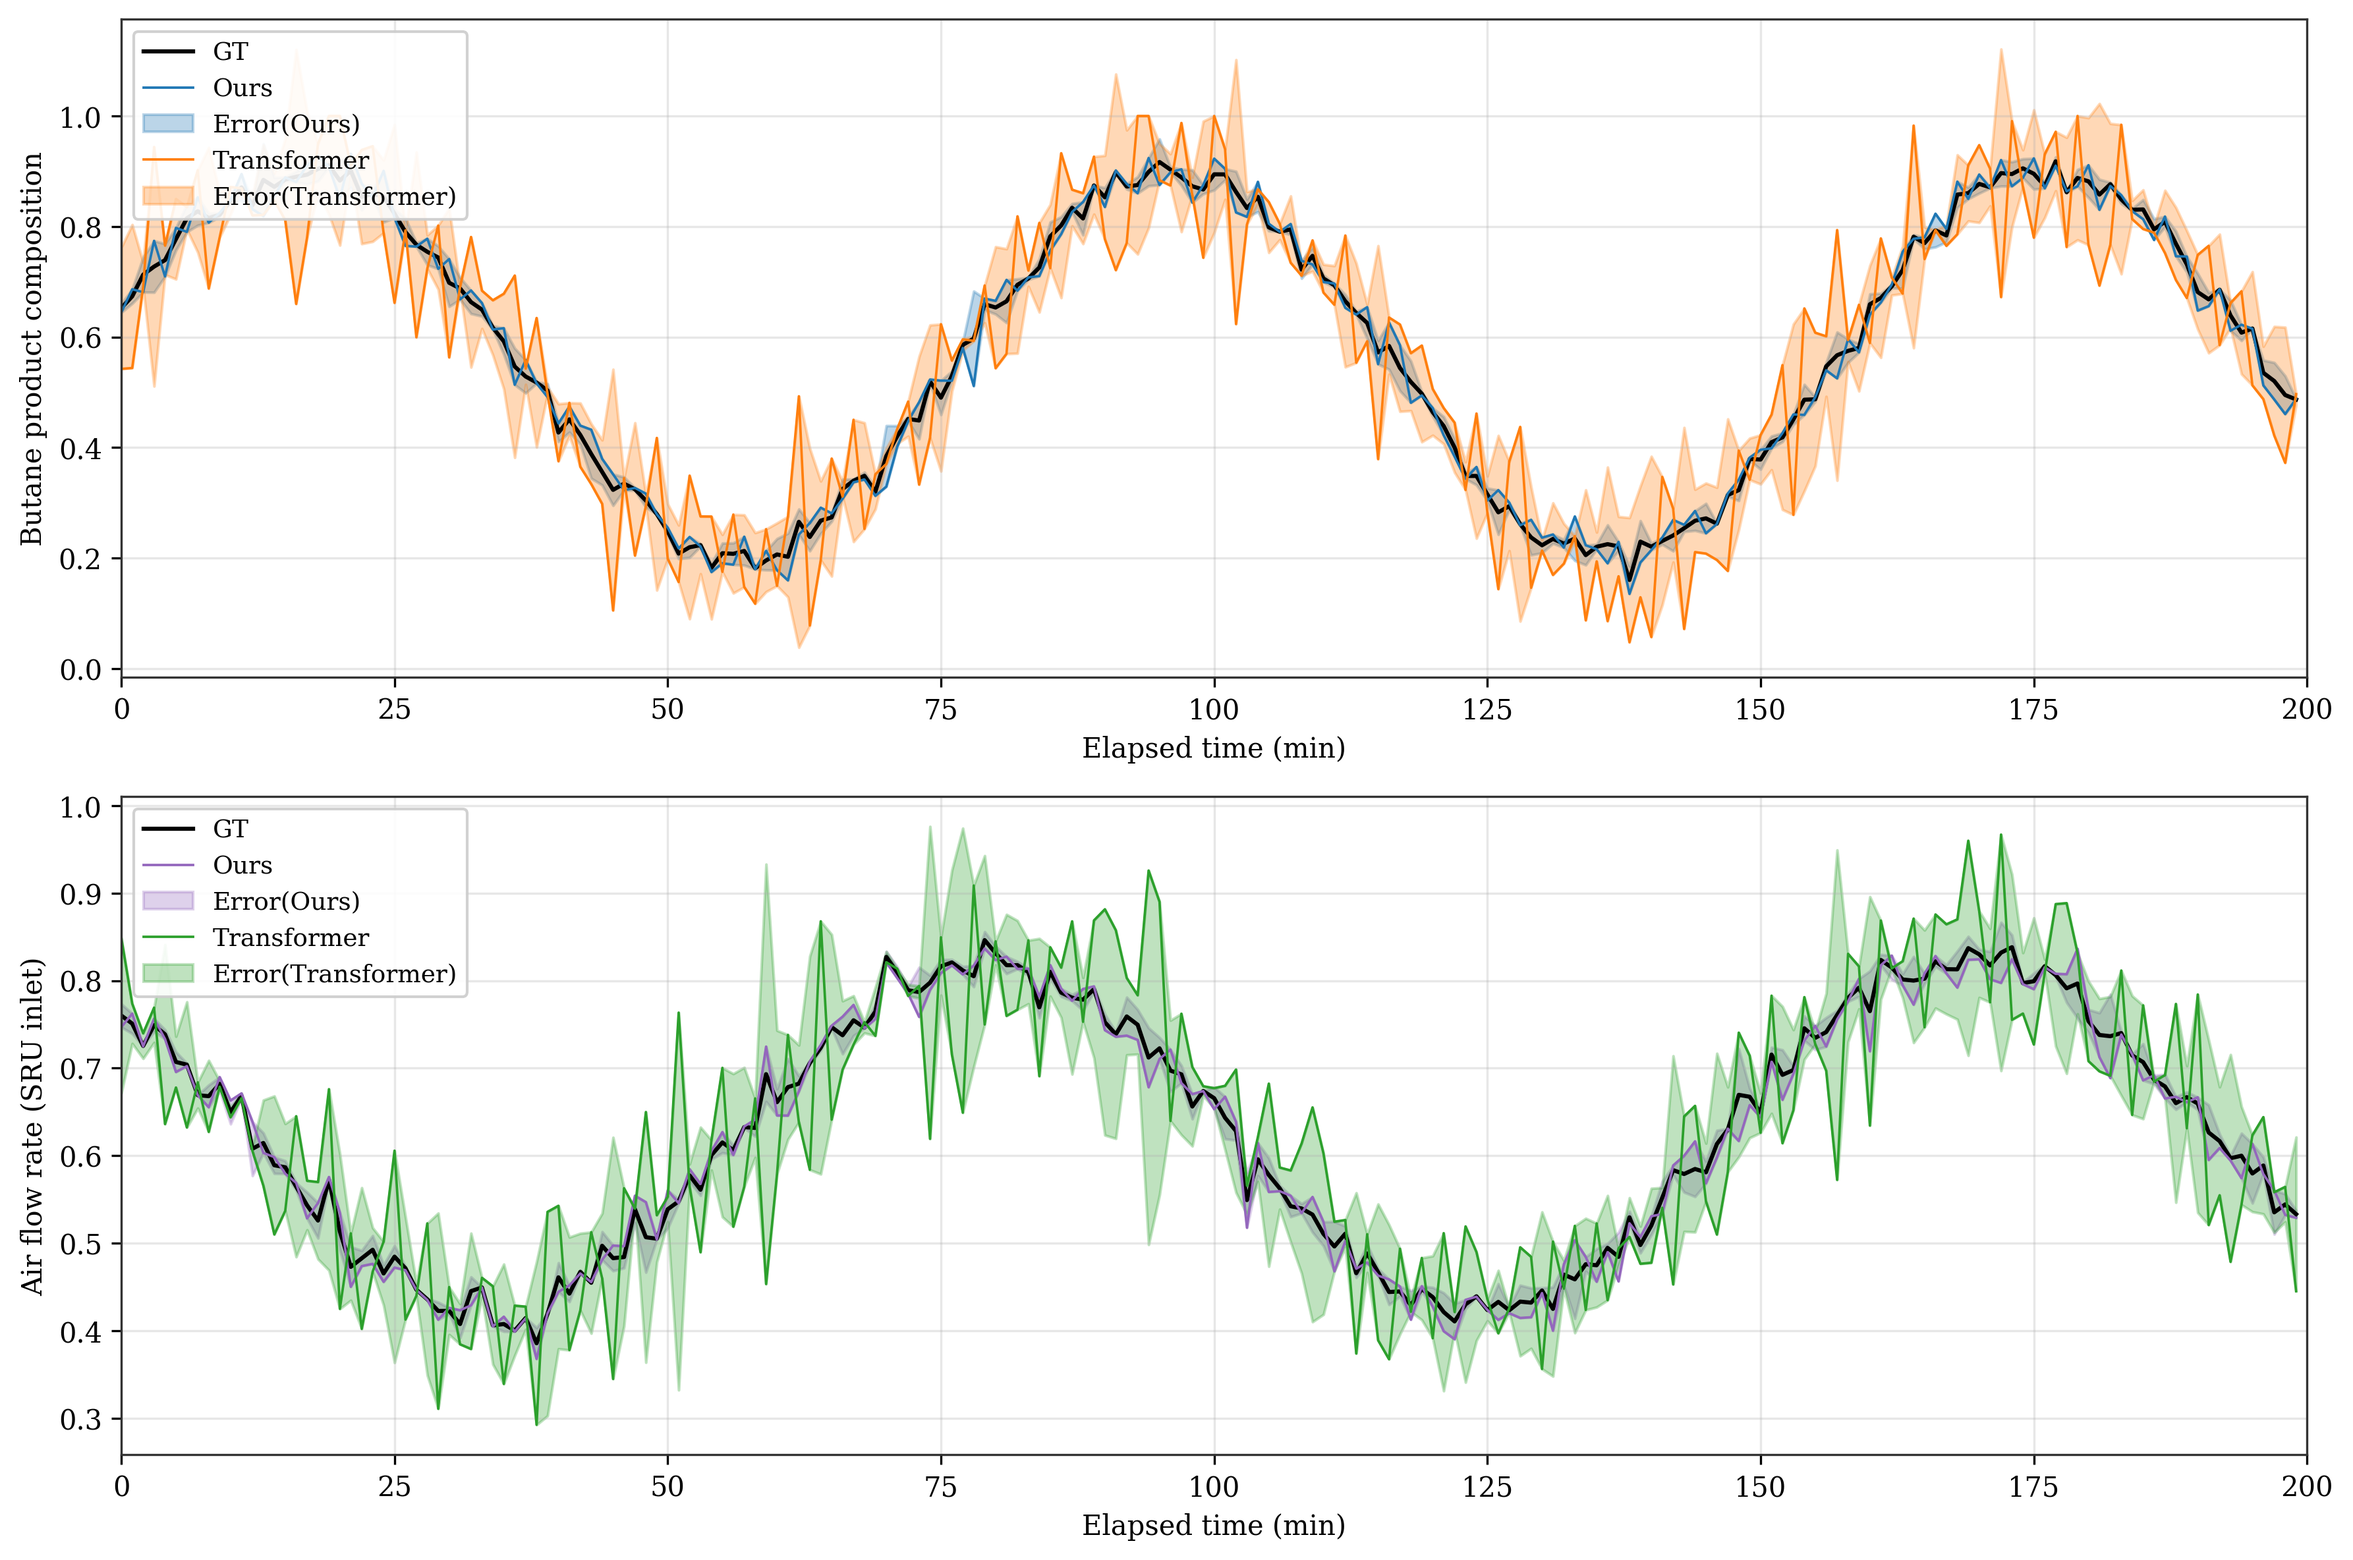
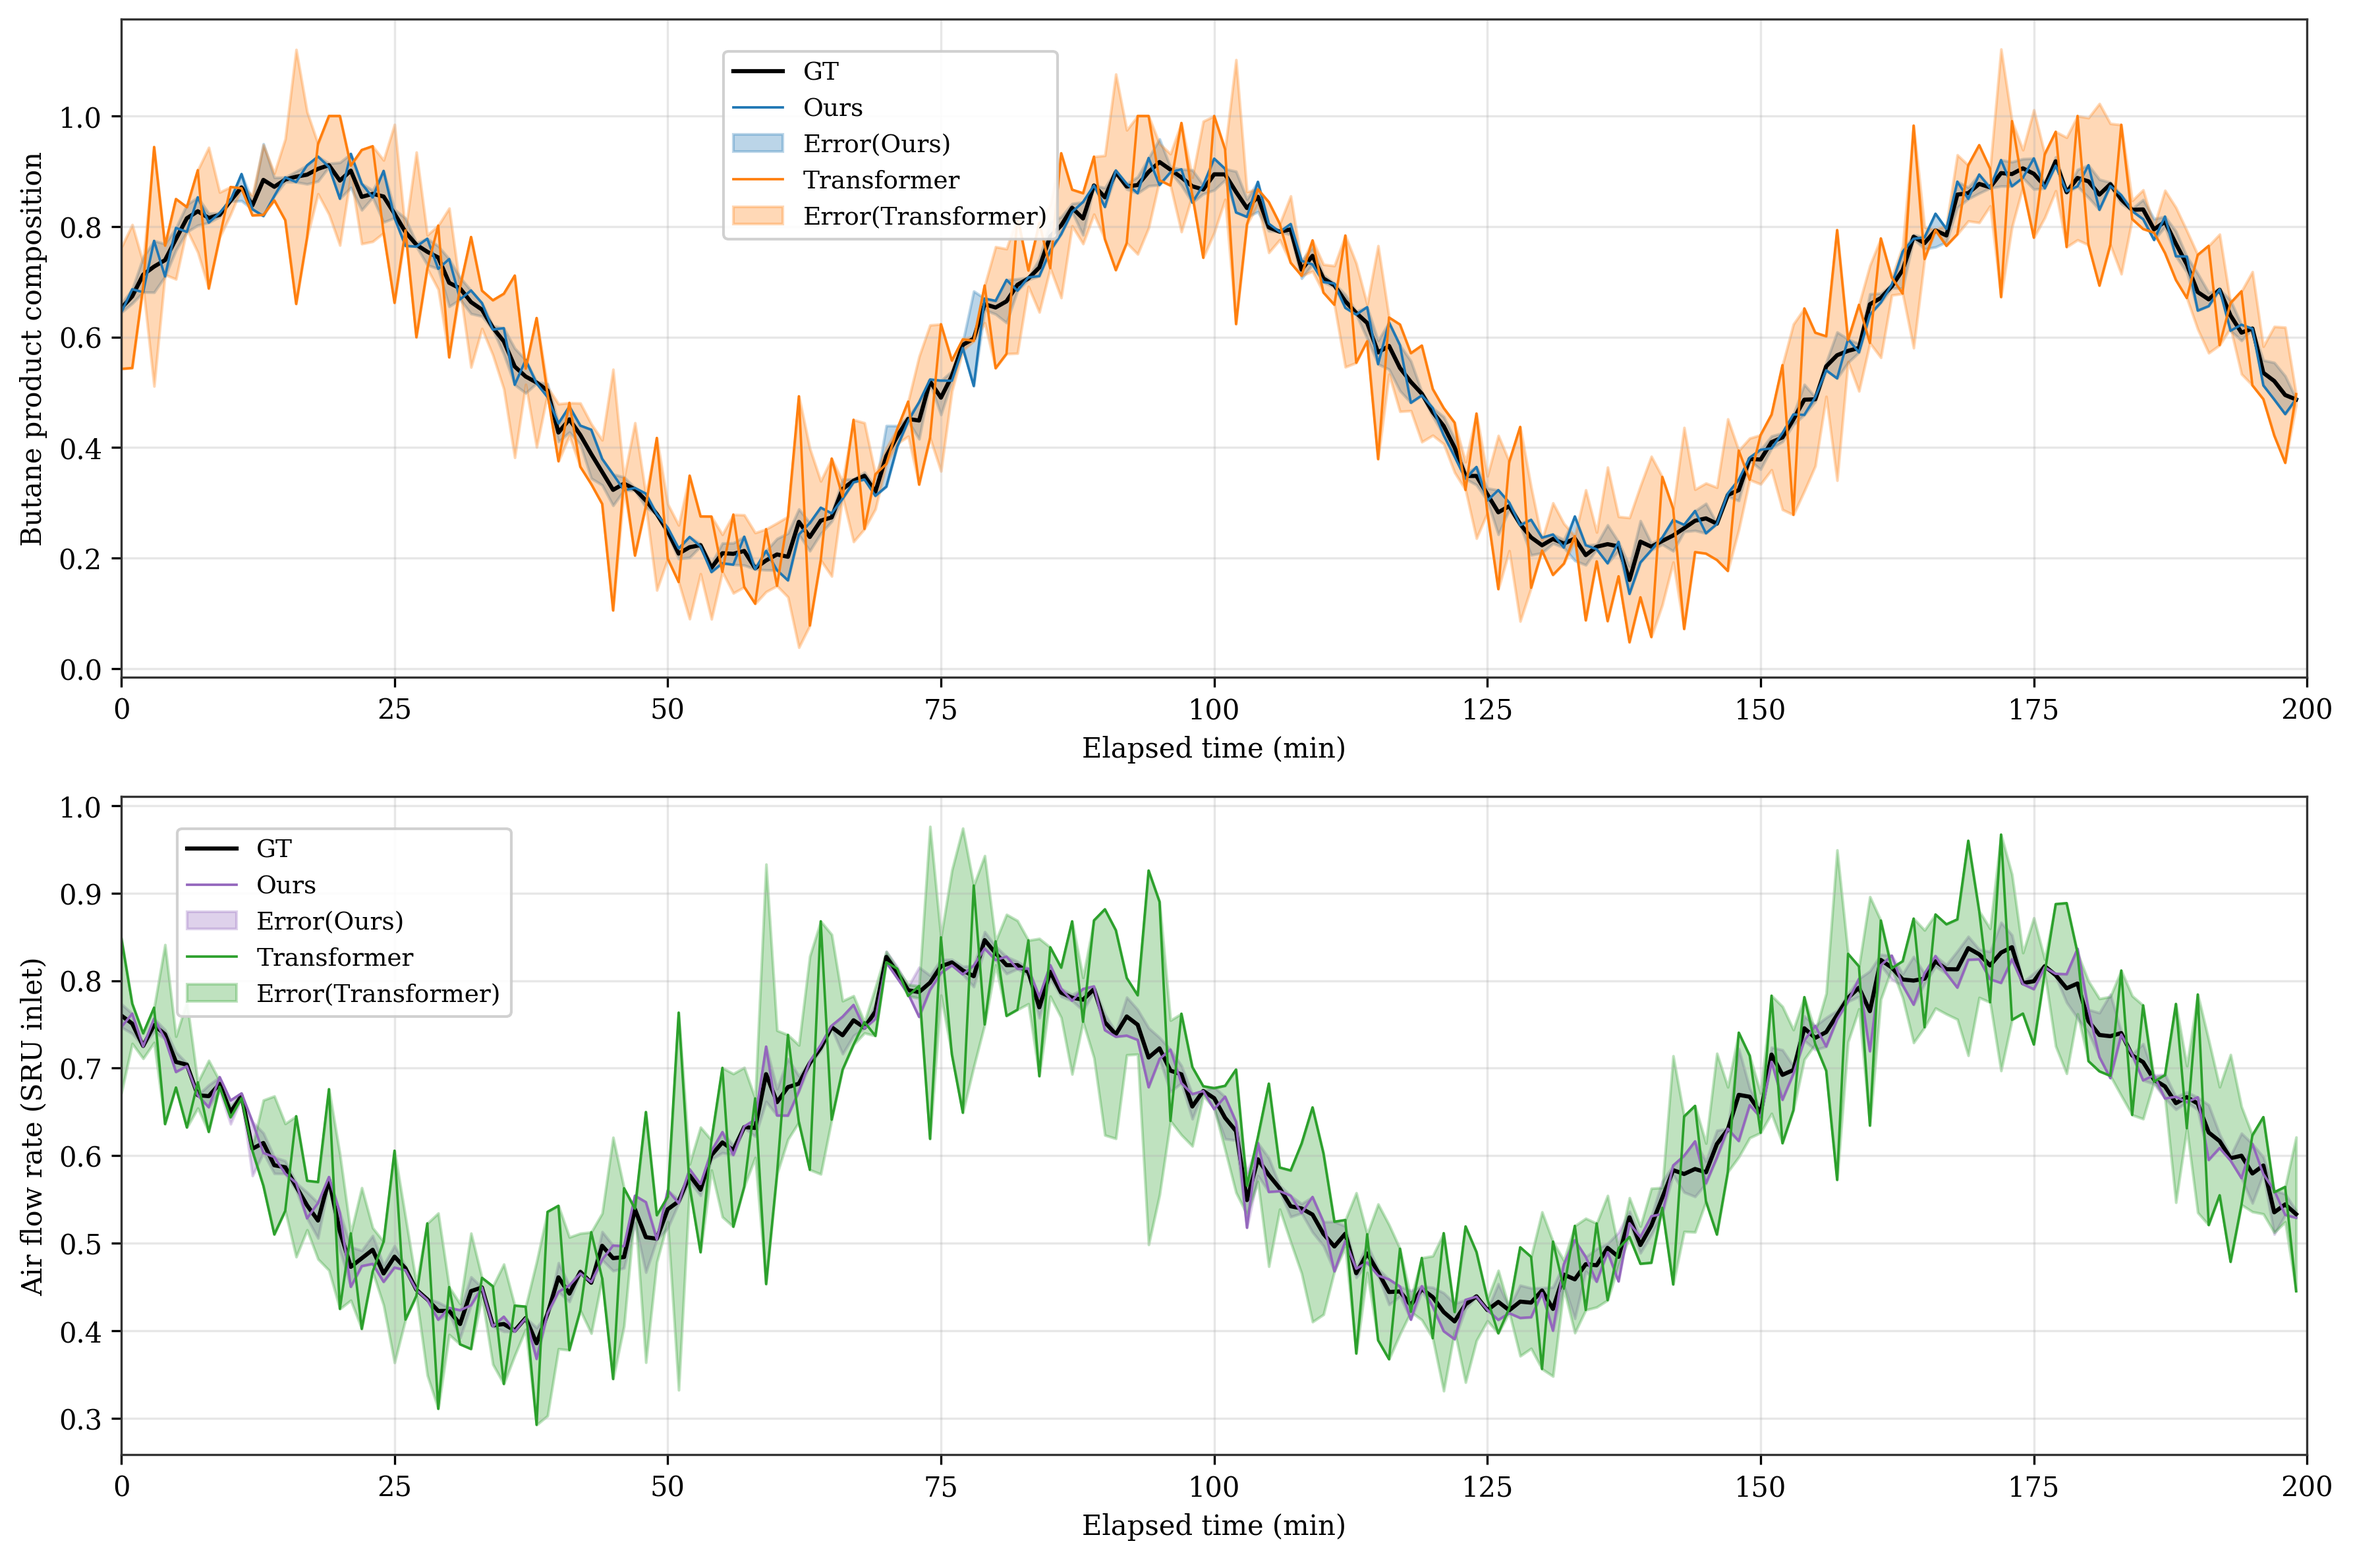
Move fig6 legend positions to match reference image
Top panel:  bbox_to_anchor=(0.27, 0.97) – upper center-left
Bottom panel: bbox_to_anchor=(0.02, 0.97) – upper far-left

https://claude.ai/code/session_01JEBjnMEN3JtTnPEsjDn4Ny

Changed region(s): [[0.0622, 0.5, 0.2176, 0.6562], [0.0622, 0.0312, 0.1865, 0.1562], [0.3108, 0.0312, 0.4663, 0.1562]]

diff --git a/visualization/draw_fig6_comparison.py b/visualization/draw_fig6_comparison.py
@@ -51,7 +51,7 @@ sru_ours, sru_trans = make_preds(sru_gt, 0.018, 0.075)
 
 
 # ── Plotting ───────────────────────────────────────────────────────────────────
-def plot_panel(ax, gt, ours, trans, ylabel, c_ours, c_trans):
+def plot_panel(ax, gt, ours, trans, ylabel, c_ours, c_trans, legend_anchor):
     steps    = np.arange(N)
     err_ours = np.abs(ours  - gt)
     err_tran = np.abs(trans - gt)
@@ -68,7 +68,8 @@ def plot_panel(ax, gt, ours, trans, ylabel, c_ours, c_trans):
     h, lbl = ax.get_legend_handles_labels()
     order = [2, 3, 0, 4, 1]
     ax.legend([h[i] for i in order], [lbl[i] for i in order],
-              loc='upper left', fontsize=9, framealpha=0.9)
+              loc='upper left', bbox_to_anchor=legend_anchor,
+              fontsize=9, framealpha=0.9)
 
     ax.set_ylabel(ylabel, fontsize=10)
     ax.set_xlabel('Elapsed time (min)', fontsize=10)
@@ -82,12 +83,14 @@ fig, (ax1, ax2) = plt.subplots(2, 1, figsize=(12, 8))
 plot_panel(ax1, deb_gt, deb_ours, deb_trans,
            'Butane product composition',
            '#1f77b4',   # blue  (matplotlib C0)
-           '#ff7f0e')   # orange (matplotlib C1)
+           '#ff7f0e',   # orange (matplotlib C1)
+           legend_anchor=(0.27, 0.97))
 
 plot_panel(ax2, sru_gt, sru_ours, sru_trans,
            'Air flow rate (SRU inlet)',
            '#9467bd',   # purple (matplotlib C4)
-           '#2ca02c')   # green  (matplotlib C2)
+           '#2ca02c',   # green  (matplotlib C2)
+           legend_anchor=(0.02, 0.97))
 
 plt.tight_layout()
 
